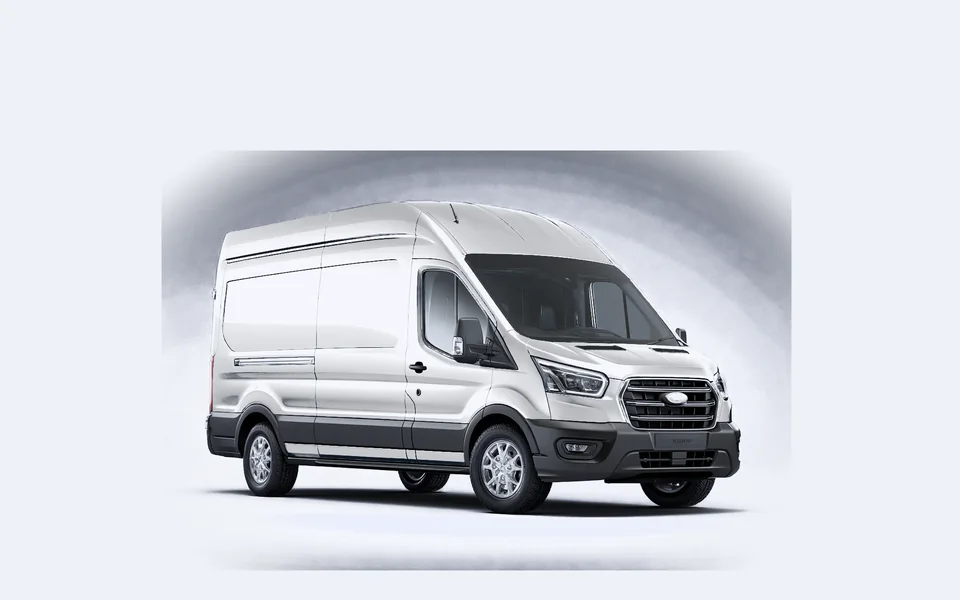
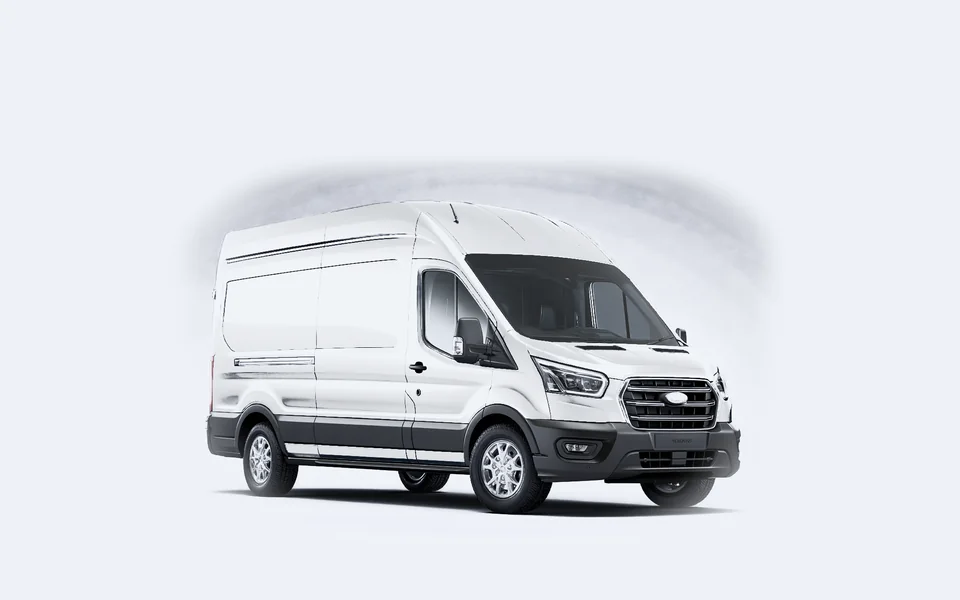
Rigid truck photos (Volvo, Scania, MAN, Mercedes-Benz, DAF, Iveco); cleaner backgrounds for vans and tippers
Box-body trucks in the same studio style, faced right (Iveco grille lettering kept readable), plate spots on each bumper. The grey studio halo around vans, tippers and trucks is lifted to the card background; the Ford Transit no longer shows its original backdrop frame.

diff --git a/src/lib/fleet/truckPhoto.ts b/src/lib/fleet/truckPhoto.ts
@@ -2,14 +2,16 @@
  * Фото машины по марке (21.11.2026). Тягачи — Volvo, Scania, MAN,
  * Mercedes-Benz, DAF, Iveco, Renault (public/media/trucks); самосвалы 8×4 —
  * Volvo, Scania, MAN, Mercedes-Benz, Iveco, Renault (public/media/tippers);
+ * грузовики с фургонным кузовом — Volvo, Scania, MAN, Mercedes-Benz, DAF,
+ * Iveco (public/media/rigids);
  * фургоны — Ford, Citroën, Fiat, Volkswagen, Mercedes-Benz (public/media/vans). Снимки
  * приведены к одному виду: фон --color-ground, мордой вправо, один масштаб,
  * 960 × 600.
  *
  * Цвет по классу машины — решение владельца 21.11.2026: тягачи графитовые,
- * фургоны белые, самосвалы — светлая кабина и серый кузов; грузовики
- * (голубая кабина, белый кузов) — когда будут снимки. Самосвал любой
- * осности показывается снимком 8×4 — самого ходового в Финляндии. Класс без снимков и
+ * фургоны белые, самосвалы и грузовики — светлая кабина и серый кузов, как
+ * на снимках владельца. Самосвал любой осности показывается снимком 8×4,
+ * грузовик — снимком своей марки (у Iveco 4×2, у остальных 6×2). Класс без снимков и
  * марка не из списка — без фото: чужая машина на карточке вводила бы в
  * заблуждение.
  *
@@ -45,6 +47,16 @@ const TIPPER_PLATE: Partial<Record<TruckBrand, { x: number; y: number; w: number
   man: { x: 683, y: 438, w: 30, skew: -1 },
   volvo: { x: 707, y: 467, w: 34, skew: -1 },
   scania: { x: 707, y: 457, w: 34, skew: -1 },
+};
+
+/* Номер на бампере грузовика (кадр 960 × 600). Renault грузовика нет. */
+const RIGID_PLATE: Partial<Record<TruckBrand, { x: number; y: number; w: number; skew: number }>> = {
+  iveco: { x: 667, y: 447, w: 40, skew: -1 },
+  daf: { x: 661, y: 467, w: 40, skew: -1 },
+  mercedes: { x: 718, y: 467, w: 48, skew: -2 },
+  man: { x: 757, y: 445, w: 40, skew: -2 },
+  scania: { x: 740, y: 477, w: 34, skew: -1 },
+  volvo: { x: 697, y: 463, w: 40, skew: -1 },
 };
 
 export type VanBrand = 'ford' | 'citroen' | 'fiat' | 'vw' | 'mercedes';
@@ -100,13 +112,14 @@ export function truckPhoto(make: string | null | undefined, vehicleClass: string
       plate: { x: v.x / TRUCK_PHOTO_SIZE.width, y: v.y / TRUCK_PHOTO_SIZE.height, w: v.w / TRUCK_PHOTO_SIZE.width, skew: v.skew },
     };
   }
-  if (vehicleClass === 'TIPPER') {
+  if (vehicleClass === 'TIPPER' || vehicleClass === 'TRUCK') {
     const brand = truckBrand(make);
-    const t = brand ? TIPPER_PLATE[brand] : undefined;
+    const tipper = vehicleClass === 'TIPPER';
+    const t = brand ? (tipper ? TIPPER_PLATE : RIGID_PLATE)[brand] : undefined;
     if (!brand || !t) return null;
     return {
       brand,
-      src: `/media/tippers/${brand}.webp`,
+      src: `/media/${tipper ? 'tippers' : 'rigids'}/${brand}.webp`,
       plate: { x: t.x / TRUCK_PHOTO_SIZE.width, y: t.y / TRUCK_PHOTO_SIZE.height, w: t.w / TRUCK_PHOTO_SIZE.width, skew: t.skew },
     };
   }
